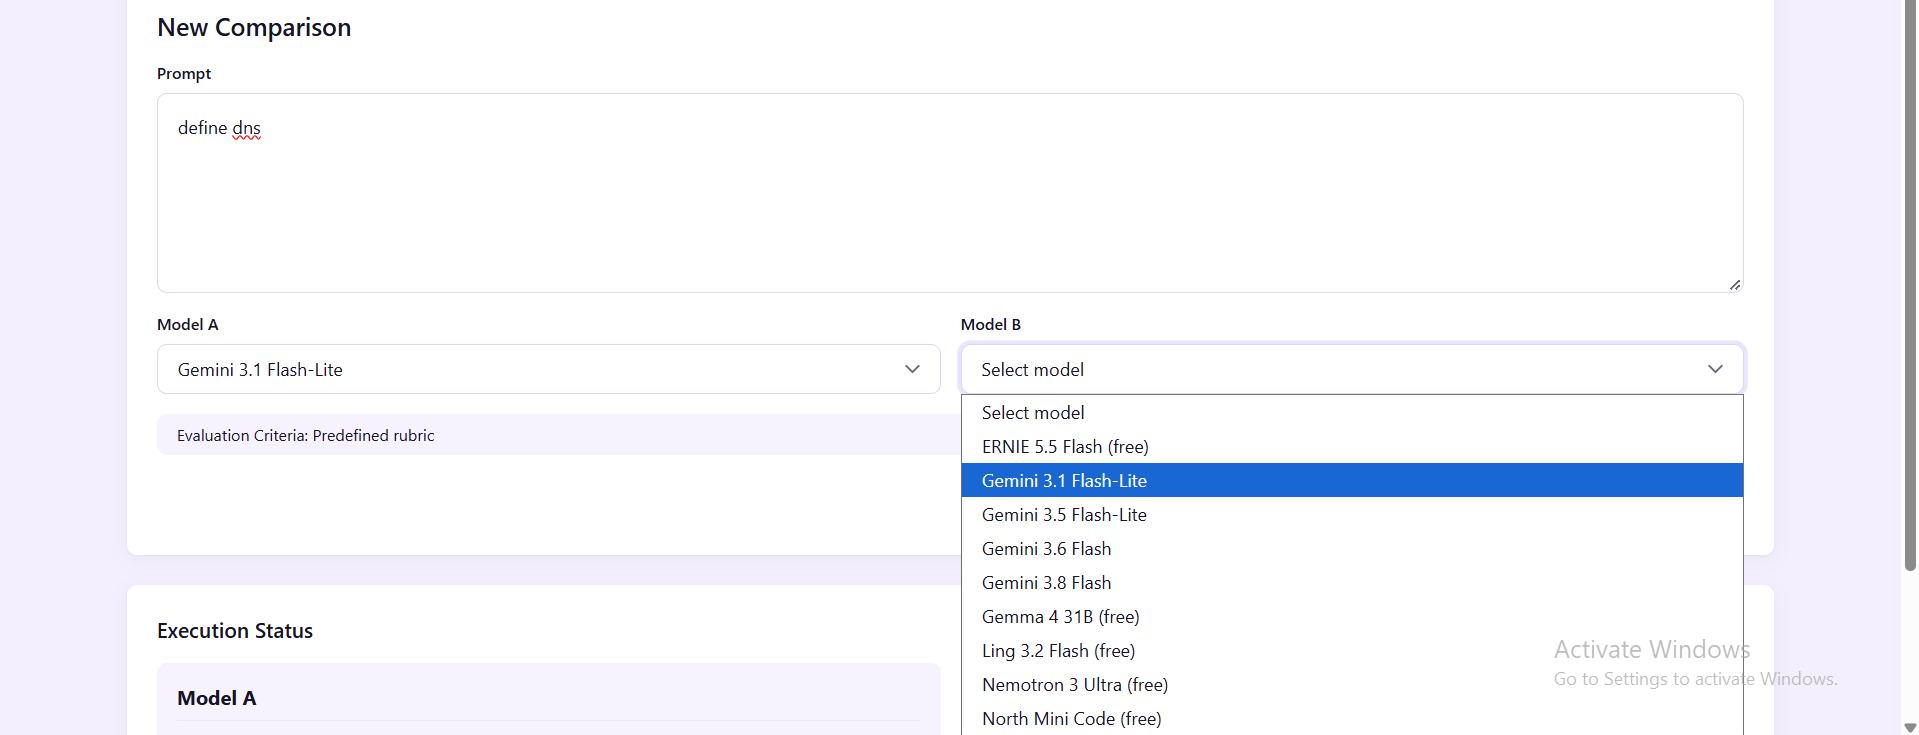
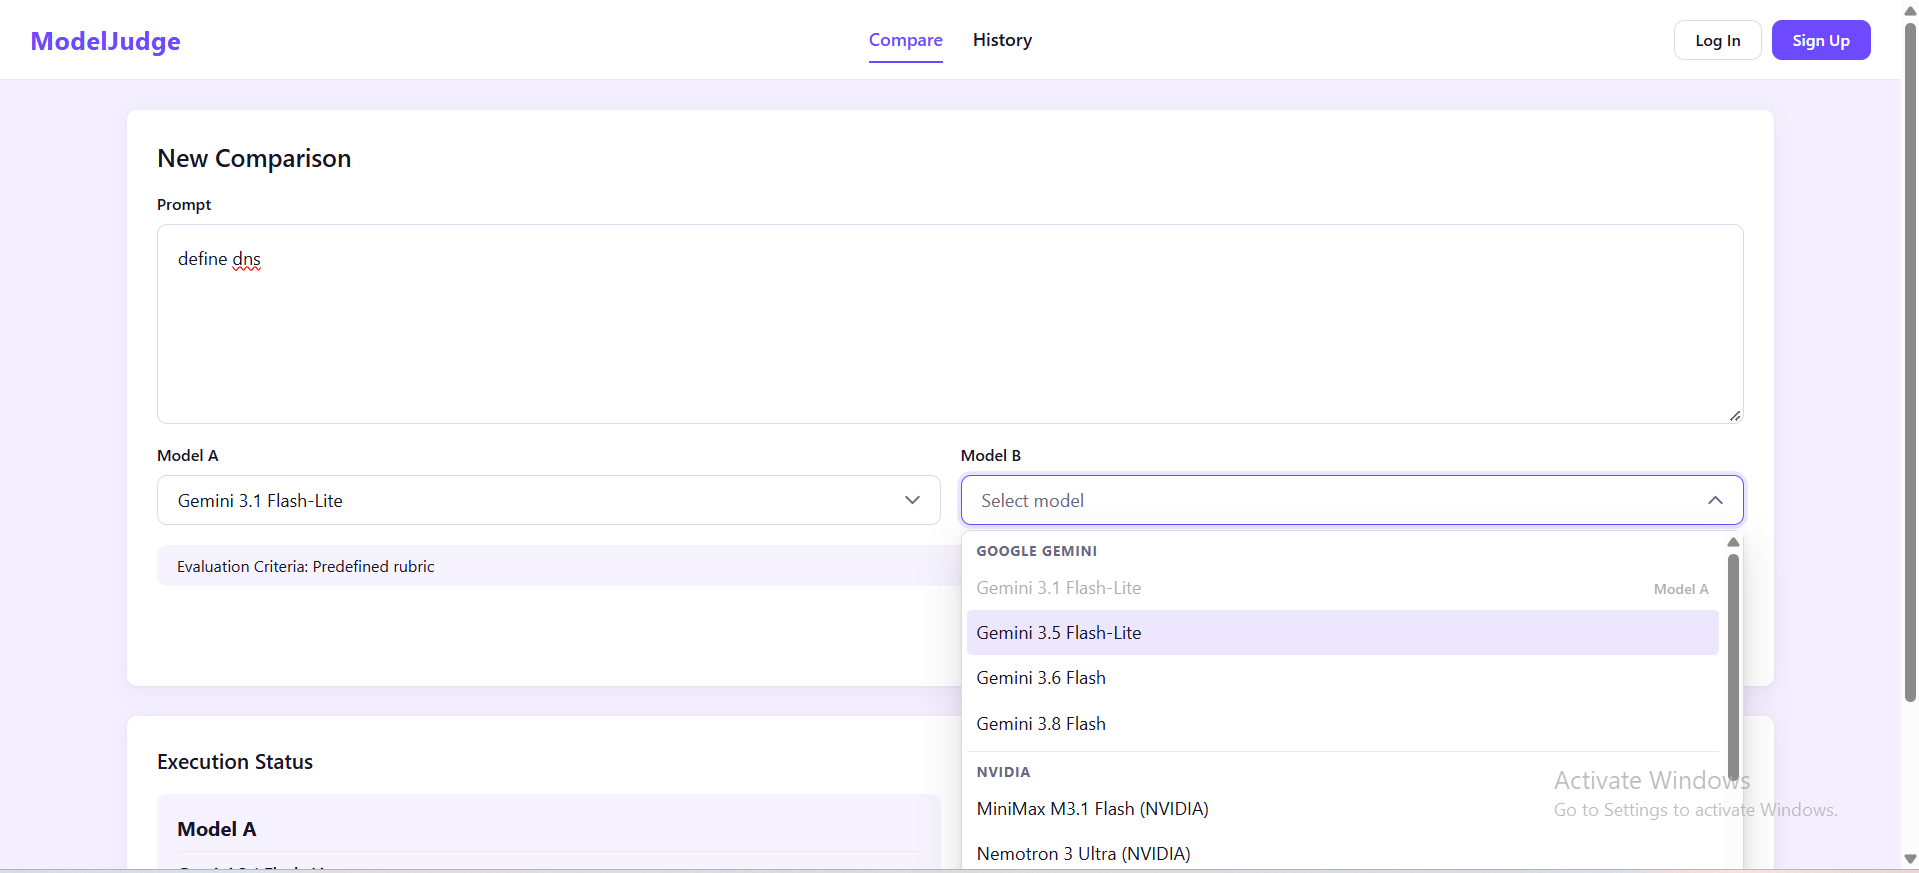
docs: document password reset, two-step verification and model dropdown

diff --git a/README.md b/README.md
@@ -44,10 +44,12 @@ Every comparison made while signed in is saved as an **experiment**. An experime
 |---|---|
 | **Landing page** (`/`) | Read what ModelJudge does, see the six-step "How it works" flow and the main benefits, and start right away: "Get Started" opens the comparison page without an account. Sign up and log in are one click away. Signed-in users get a direct link into the app. |
 | **Registration** (`/register`) | Create an account with first name, optional last name, email and password. Backend validation errors are shown under the related field in plain language. The password can be shown or hidden while typing. |
-| **Login** (`/login`) | Sign in with email and password, with a show/hide password control. Wrong credentials, connection problems and a slow server each get a clear message. The user's name is loaded from the account after login. |
+| **Login** (`/login`) | Sign in with email and password, with a show/hide password control. Wrong credentials, connection problems and a slow server each get a clear message. The user's name is loaded from the account after login. A **Forgot your password?** link leads to the password reset. When two-step verification is on, the user also enters a 6 digit code sent by email, and can ask for a new code after a short wait. |
+| **Forgot password** (`/forgot-password`) | Enter the account email to receive a link for choosing a new password. The page confirms that the email was sent without saying whether the account exists, and reminds the user that the link works for one hour. |
+| **Reset password** (`/reset-password?uid=<uid>&token=<token>`) | Opened from the emailed link. The user enters the new password twice, with show/hide controls. An incomplete, expired or already used link gets a clear message and a way to request a new one. After the change, a button leads back to sign in. |
 | **Guest comparisons** | Visitors can run a comparison without an account. The Results page notes that it was not saved, with links to log in or sign up. |
 | **Session handling** | The session is renewed automatically when the access token expires. If renewal is no longer possible, the user is signed out. |
-| **Model selection** (`/compare`) | Choose two different models from the list returned by the backend. Inactive models are not offered. |
+| **Model selection** (`/compare`) | Choose two different models from the list returned by the backend. Inactive models are not offered. The model lists are custom dropdowns that group the models by provider (for example Google Gemini, Groq, OpenRouter) and mark the model already chosen in the other list as unavailable. They can be used with the keyboard (arrow keys, Home/End, Enter, Escape and typing a name). |
 | **Prompt submission** (`/compare`) | Enter a prompt and run the comparison. The button is disabled while a comparison is running, so it cannot be submitted twice. |
 | **Comparison results** (`/results?experiment=<id>&run=<id>`) | See both answers side by side, the status of each model, a metrics table, and the judge's evaluation. A failed model shows a short error message while the other answer stays visible. The link identifies the experiment and run, so the page can be refreshed, reopened or bookmarked by the signed-in owner. |
 | **AI evaluation** | Winner, reasoning, a table of the four criteria plus the overall score, and strengths and weaknesses per model. When there is no evaluation (for example, one model failed), the backend's explanation is shown. |
@@ -57,7 +59,8 @@ Every comparison made while signed in is saved as an **experiment**. An experime
 | **Delete experiment** | Delete an experiment from the history after confirming in a dialog. |
 | **Experiment details** (`/experiments/:experimentId`) | Experiment summary (prompt, models, date, run count), a table of all runs, and for the selected run: model responses, performance metrics and the AI judge section. The selected run is kept in the URL (`?run=<id>`). |
 | **Run again** | Execute an experiment again from its details page. The new run is saved under the same experiment and opened automatically. |
-| **User profile** (`/profile`) | View the account, edit first and last name, change the password, and sign out. The email cannot be changed. |
+| **User profile** (`/profile`) | View the account, edit first and last name, change the password, turn two-step verification on or off, and sign out. The email cannot be changed. |
+| **Two-step verification** (`/profile`) | Turning it on asks for the current password, then for a 6 digit code sent to the account email. Turning it off asks for the password. While it is on, every sign-in needs a code from the email. |
 | **Navigation** | A header on desktop, a collapsible side panel on tablet, and a slide-in drawer on mobile. The ModelJudge logo always links back to the home page. |
 | **Loading, empty and error states** | Pages show clear, human-readable states for loading, no data, expired sessions, missing experiments, connection failures, timeouts and server errors. The model list can be reloaded with "Try again" if it fails to load. |
 
@@ -99,20 +102,25 @@ frontend/
     ├── assets/                 # Static assets imported by components (currently empty)
     ├── components/
     │   ├── AppHeader/          # Header, tablet side panel and mobile drawer
+    │   ├── CodeInput/          # 6 digit code field for emailed codes
     │   ├── ConfirmDialog/      # Reusable confirmation dialog
-    │   └── PageState/          # Loading, empty and error messages
+    │   ├── ModelSelect/        # Model dropdown grouped by provider
+    │   ├── PageState/          # Loading, empty and error messages
+    │   └── PasswordInput/      # Password field with a show/hide button
     ├── pages/
     │   ├── Landing/            # Public home page
-    │   ├── Login/              # Sign in
+    │   ├── Login/              # Sign in, including the emailed code step
+    │   ├── ForgotPassword/     # Ask for a password reset email
+    │   ├── ResetPassword/      # Choose a new password from the emailed link
     │   ├── Register/           # Create an account
     │   ├── Compare/            # Model selection and prompt submission
     │   ├── ComparisonResults/  # Results of the latest comparison
     │   ├── Experiments/        # Experiment history
     │   ├── ExperimentDetails/  # One experiment and its runs
-    │   └── Profile/            # Account details and password
+    │   └── Profile/            # Account details, password and two-step verification
     ├── services/
     │   ├── api.js              # HTTP client: auth header, token renewal, timeouts, errors
-    │   ├── authService.js      # Register, login, current user, profile, password
+    │   ├── authService.js      # Register, login and codes, current user, profile, password, reset, two-step verification
     │   ├── comparisonService.js# Models list and new comparisons
     │   ├── experimentService.js# History, details, delete, rerun
     │   ├── normalize.js        # Turns backend payloads into view models for the pages
@@ -200,7 +208,7 @@ All requests go through `apiRequest()` in `src/services/api.js`:
 
 - **Base URL:** `VITE_API_BASE_URL` + the endpoint path (for example `/api/models/`). In development the Vite proxy forwards `/api` to `VITE_API_PROXY_TARGET`.
 - **Authentication:** JWT bearer tokens. When an access token exists, every request sends `Authorization: Bearer <access>`.
-- **Token renewal:** if a request returns `401`, the client calls `POST /api/auth/refresh/` once and repeats the request with the new token. Requests that fail at the same moment share a single refresh call. Login, register and refresh themselves are never retried. If the refresh token is rejected, the session is cleared and the app signs the user out.
+- **Token renewal:** if a request returns `401`, the client calls `POST /api/auth/refresh/` once and repeats the request with the new token. Requests that fail at the same moment share a single refresh call. Login, register and refresh themselves are never retried, and neither are the sign-in code and password reset requests. If the refresh token is rejected, the session is cleared and the app signs the user out.
 - **Timeouts:** 60 seconds by default; 180 seconds for rerunning an experiment, which waits for both models and the judge.
 - **Errors:** failed requests throw an `Error` with `status` (HTTP status) and `data` (the parsed response body). Field errors from the backend (`{ "email": ["..."] }`) are mapped to the matching form fields. HTML error pages from the server are replaced by a readable message.
 
@@ -219,11 +227,18 @@ The current user is loaded from `GET /api/auth/me/` when the app starts and afte
 | Method | Endpoint | Purpose | Auth | Used in |
 |---|---|---|---|---|
 | `POST` | `/api/auth/register/` | Create an account (`email`, `first_name`, `last_name`, `password`); returns the user and tokens | None | Register |
-| `POST` | `/api/auth/login/` | Exchange email and password for `access` and `refresh` tokens | None | Login |
+| `POST` | `/api/auth/login/` | Exchange email and password for `access` and `refresh` tokens. When two-step verification is on, it answers `202` with `requires_2fa`, a `challenge`, the `email` and `resend_after` instead | None | Login |
+| `POST` | `/api/auth/login/verify/` | Finish a two-step sign-in (`challenge`, `code`); returns the tokens | None | Login |
+| `POST` | `/api/auth/login/resend/` | Email a new sign-in code (`challenge`); `429` if asked again too soon | None | Login |
+| `POST` | `/api/auth/password-reset/` | Email a password reset link (`email`) | None | Forgot Password |
+| `POST` | `/api/auth/password-reset/confirm/` | Set a new password from the link (`uid`, `token`, `new_password`) | None | Reset Password |
 | `POST` | `/api/auth/refresh/` | Get a new access token from the refresh token | Refresh token in body | `api.js` |
-| `GET` | `/api/auth/me/` | Current user (`id`, `email`, `first_name`, `last_name`) | Bearer | App start-up, Login |
+| `GET` | `/api/auth/me/` | Current user (`id`, `email`, `first_name`, `last_name`, `two_factor_enabled`) | Bearer | App start-up, Login |
 | `PATCH` | `/api/auth/me/` | Update `first_name` and/or `last_name` | Bearer | Profile |
 | `POST` | `/api/auth/change-password/` | Change the password (`old_password`, `new_password`) | Bearer | Profile |
+| `POST` | `/api/auth/two-factor/enable/` | Start turning on two-step verification (`password`); emails a code | Bearer | Profile |
+| `POST` | `/api/auth/two-factor/confirm/` | Turn it on with the emailed `code`; returns the updated user | Bearer | Profile |
+| `POST` | `/api/auth/two-factor/disable/` | Turn it off (`password`); returns the updated user | Bearer | Profile |
 | `GET` | `/api/models/` | Models available for comparison | None | Compare |
 | `POST` | `/api/comparisons/` | Run a comparison (`prompt`, `model_ids`) and get both answers, metrics and the evaluation | Optional (when signed in, the experiment is saved to the account) | Compare |
 | `GET` | `/api/experiments/?page=&page_size=` | The user's experiments, paginated (20 per page) | Bearer | History |
@@ -242,8 +257,9 @@ The current user is loaded from `GET /api/auth/me/` when the app starts and afte
 ## Application Workflow
 
 ```text
-Landing (/) ──► Register (/register) or Login (/login)
-                         │
+Landing (/) ──► Register (/register) or Login (/login) ──► emailed code (if two-step verification is on)
+                         │          │
+                         │          └── Forgot password (/forgot-password) ──► email ──► Reset password (/reset-password) ──► Login
                          ▼
                  Compare (/compare)  ──run──►  Results (/results)
                          ▲                         │
@@ -255,12 +271,12 @@ Landing (/) ──► Register (/register) or Login (/login)
                          └── Delete (with confirmation)     └── Run Again ──► new run opens
 ```
 
-1. **Start.** Visitors land on `/`. "Get Started" opens `/compare` straight away, without an account. "Log In" and "Sign Up" are available in the header. After signing in, the user arrives at `/compare`.
+1. **Start.** Visitors land on `/`. "Get Started" opens `/compare` straight away, without an account. "Log In" and "Sign Up" are available in the header. After signing in, the user arrives at `/compare`. If two-step verification is on, the user first enters the 6 digit code sent by email. A user who forgot the password uses **Forgot your password?** on the login page, receives a link by email, chooses a new password on `/reset-password` and signs in again.
 2. **Compare.** The user writes a prompt, chooses Model A and Model B (two different models) and clicks **Run Comparison**. The request is synchronous: the page shows a running state until the backend returns both answers and the evaluation.
 3. **Results.** `/results?experiment=<id>&run=<id>` shows a summary (quality, latency, estimated cost), both answers side by side, a metrics table and the quality evaluation (winner, reasoning, criteria scores, strengths and weaknesses). Right after a comparison the page uses the data it just received; when it is opened from the link later (refresh, new tab, bookmark), it loads the saved run with `GET /api/experiments/{id}/`. **Rerun** saves a new run of the same experiment, shows its results and updates the link.
 4. **History.** `/experiments` lists saved experiments with their models, latest winner, run count and date. **View** opens an experiment; **Delete** removes it after confirmation.
 5. **Experiment details.** The page shows the experiment summary and a table of runs (newest first, numbered from the oldest). Selecting a run shows its model responses, technical performance and AI judge evaluation. **Run Again** creates a new run and opens it.
-6. **Profile.** `/profile` lets the user change their name and password, or sign out.
+6. **Profile.** `/profile` lets the user change their name and password, turn two-step verification on or off, or sign out.
 
 **Signed-out users:** the header shows "Log In" and "Sign Up". History, Experiment Details and Profile show a prompt to sign in or create an account. The Compare page works without an account; such comparisons are shown right away but are not saved, so they do not appear in History and cannot be run again. A note on the Results page says so.
 
@@ -298,7 +314,7 @@ Below the form, **Execution Status** shows a card for each model. It stays empty
 
 ![Execution status before running](docs/screenshots/06-guest-compare-status.png)
 
-The model lists are loaded from the backend, so they always show the models that are currently active. The two models must be different.
+The model lists are loaded from the backend, so they always show the models that are currently active. They are grouped by provider, and the model already chosen in the other list is marked as unavailable, because the two models must be different.
 
 ![Choosing the models](docs/screenshots/07-guest-model-select.png)
 
@@ -328,9 +344,29 @@ To save comparisons, the visitor creates an account with a first name, an option
 
 ### 4. Log in (`/login`)
 
-The user signs in with email and password. The eye icon shows or hides the password while typing. Wrong credentials, connection problems and a slow server each get a clear message.
+The user signs in with email and password. The eye icon shows or hides the password while typing. Wrong credentials, connection problems and a slow server each get a clear message. Below the button, **Forgot your password?** starts the password reset and **No account yet? Register** opens the registration page.
 
 ![Login page](docs/screenshots/13-login.png)
+
+If two-step verification is on for the account, the next screen asks for the 6 digit code sent to the user's email. **Send a new code** becomes available after a short countdown.
+
+#### Reset a forgotten password (`/forgot-password` → `/reset-password`)
+
+**Forgot your password?** opens a page that asks for the account email. **Send reset link** asks the backend to email a link for choosing a new password.
+
+![Forgot password page](docs/screenshots/13a-forgot-password.png)
+
+The page then confirms that the email was sent. For privacy, it does not say whether an account exists for that email. The link works for one hour.
+
+![Reset link sent](docs/screenshots/13b-reset-link-sent.png)
+
+The link in the email opens **Choose a new password**. The user types the new password twice; the eye icons show or hide it. If the link is incomplete, expired or already used, the page says so and offers to send a new link.
+
+![Choose a new password](docs/screenshots/13c-choose-new-password.png)
+
+After the change, **Go to sign in** leads back to the login page, where the user signs in with the new password.
+
+![Password reset complete](docs/screenshots/13d-password-reset-done.png)
 
 ### 5. Comparison while signed in (`/compare` → `/results`)
 
@@ -382,7 +418,7 @@ The strengths and weaknesses of each answer appear below the scores.
 
 ### 8. Profile (`/profile`)
 
-The profile page shows the user's name and email, with sections for personal information, password and signing out.
+The profile page shows the user's name and email, with sections for personal information, password, two-step verification and signing out.
 
 ![Profile page](docs/screenshots/25-profile.png)
 
@@ -397,6 +433,14 @@ The profile page shows the user's name and email, with sections for personal inf
 A confirmation appears when the password has been changed.
 
 ![Password changed](docs/screenshots/28-password-changed.png)
+
+**Two-step verification** shows whether it is on or off. While it is off, **Turn on** starts setting it up.
+
+![Two-step verification off](docs/screenshots/28a-two-step-off.png)
+
+**Turn on** first asks the user to confirm their password. **Send me a code** emails a 6 digit code, and entering that code turns two-step verification on. From then on, every sign-in also needs a code from the email. **Turn off** asks for the password only.
+
+![Confirming the password to turn on two-step verification](docs/screenshots/28b-two-step-confirm-password.png)
 
 ---
 
@@ -428,4 +472,3 @@ The following items are present in the code but not complete, or are not impleme
 | **Results of signed-out comparisons** | A comparison made without signing in is shown right after it runs, but cannot be reopened later from its link, because it is not saved to an account. |
 | **Number of models** | The Compare page selects exactly two models. |
 | **Route protection** | There are no route guards. Pages that need an account show a sign-in prompt instead. |
-| **Forgotten password** | A signed-in user can change their password from the Profile page, but there is no "Forgot password" flow to reset it from the login page. |
